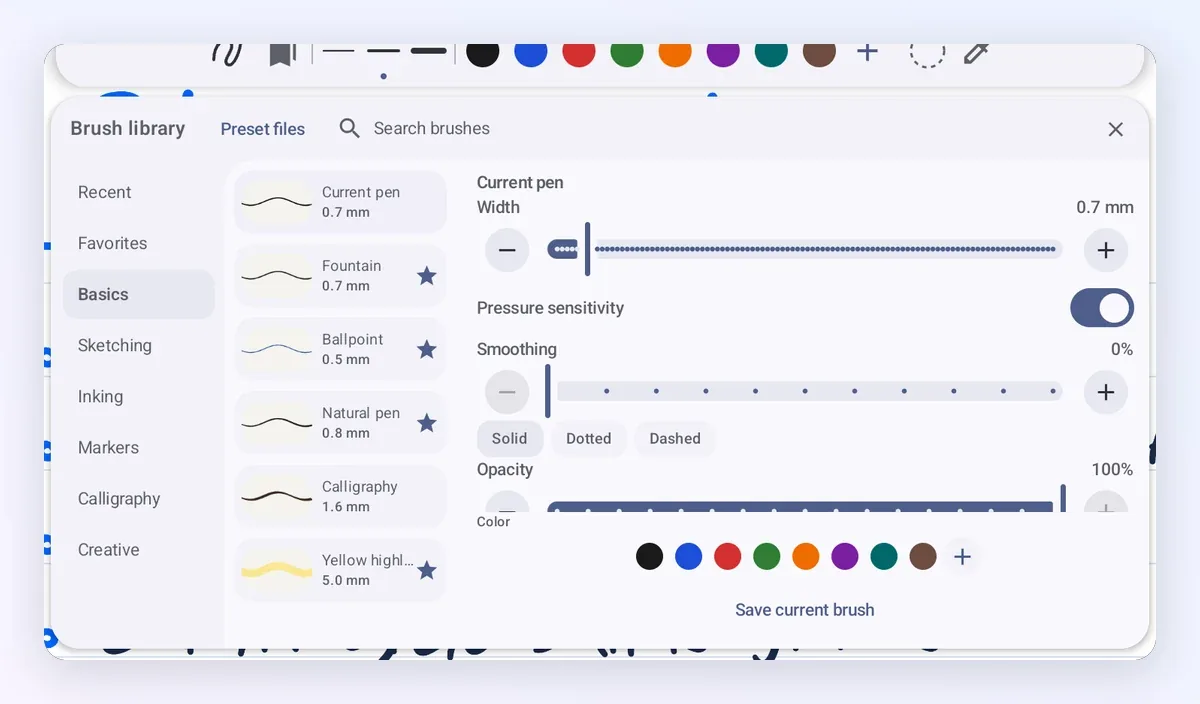
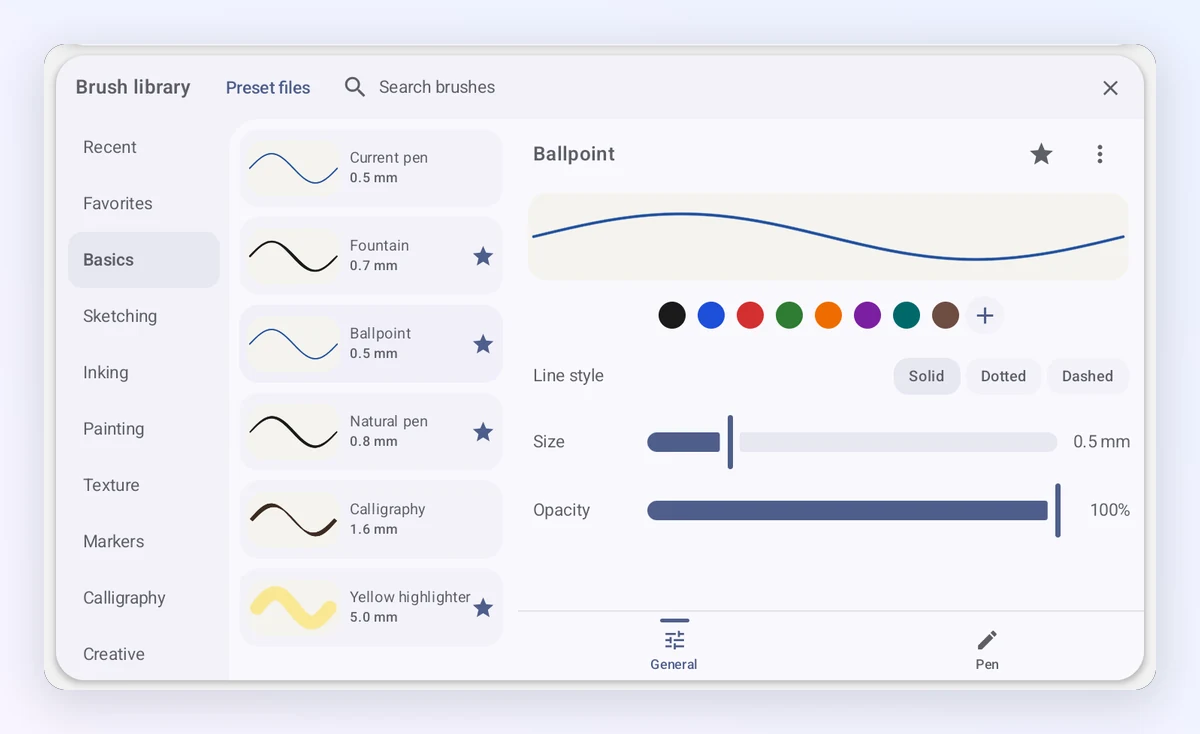
README: new brush library and Home library images

diff --git a/README.md b/README.md
@@ -45,14 +45,14 @@ Group pages into sections on the canvas, then link a page, a section or a notebo
 <tr>
 <td width="58%">
 
-<img src="docs/images/brush-library.webp" alt="Brush library with pen presets, width, pressure and smoothing controls">
+<img src="docs/images/brush-library.webp" alt="Brush library with brush categories, a live stroke preview, line style, size and opacity, and settings tabs">
 
 </td>
 <td width="42%" valign="top">
 
 ### Pens and brushes that react to your hand
 
-Choose from a brush library, then tune width, pressure sensitivity and smoothing. Add a highlighter, an eraser, a ruler, shapes, tables, sticky notes and pictures.
+Choose from a brush library. Size, opacity and color come first; tabs hold deeper settings such as pressure, taper, flow and grain. Add a highlighter, an eraser, a ruler, shapes, tables, sticky notes and pictures.
 
 </td>
 </tr>
@@ -81,6 +81,20 @@ Stack your writing in ink layers. Hide, lock or fade a layer, reorder it, or mov
 ### Clusters for whole courses
 
 Lay pages out in named, coloured clusters, so a whole course fits on one canvas.
+
+</td>
+</tr>
+<tr>
+<td width="42%" valign="top">
+
+### A library that keeps up
+
+Find notebooks in Library, Recent and Favorites. Favorites gathers the pages you star from every notebook. Tap the storage size to see what each folder and notebook uses.
+
+</td>
+<td width="58%">
+
+<img src="docs/images/library.webp" alt="Home screen library with folders and notebooks, and tabs for Library, Recent, Favorites and Bin">
 
 </td>
 </tr>
